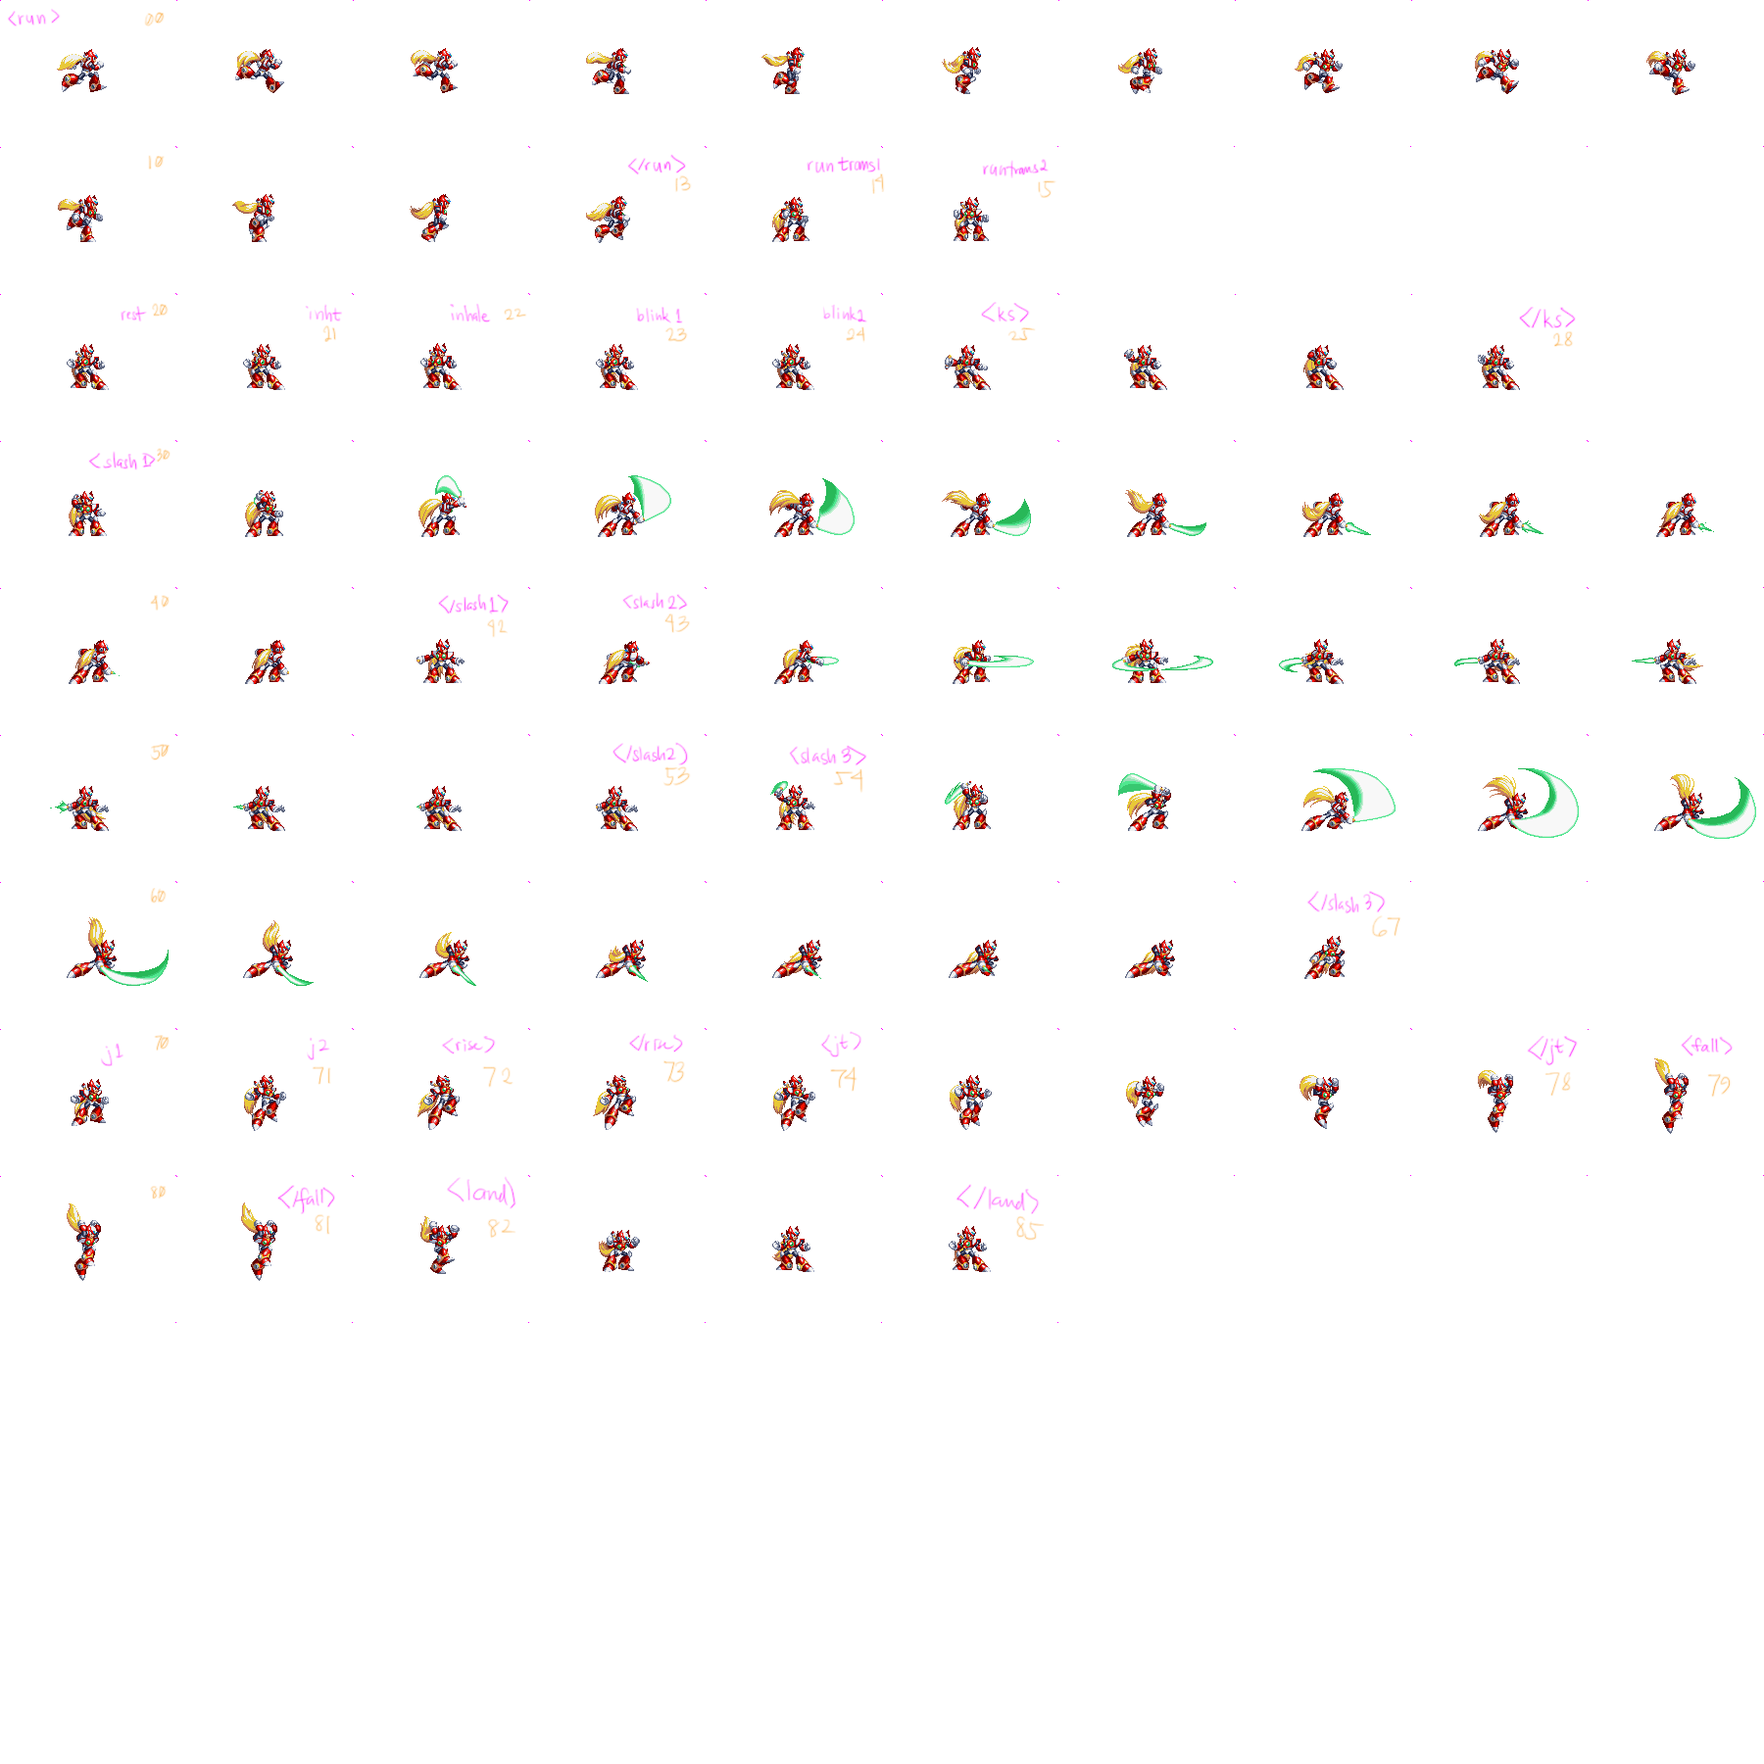
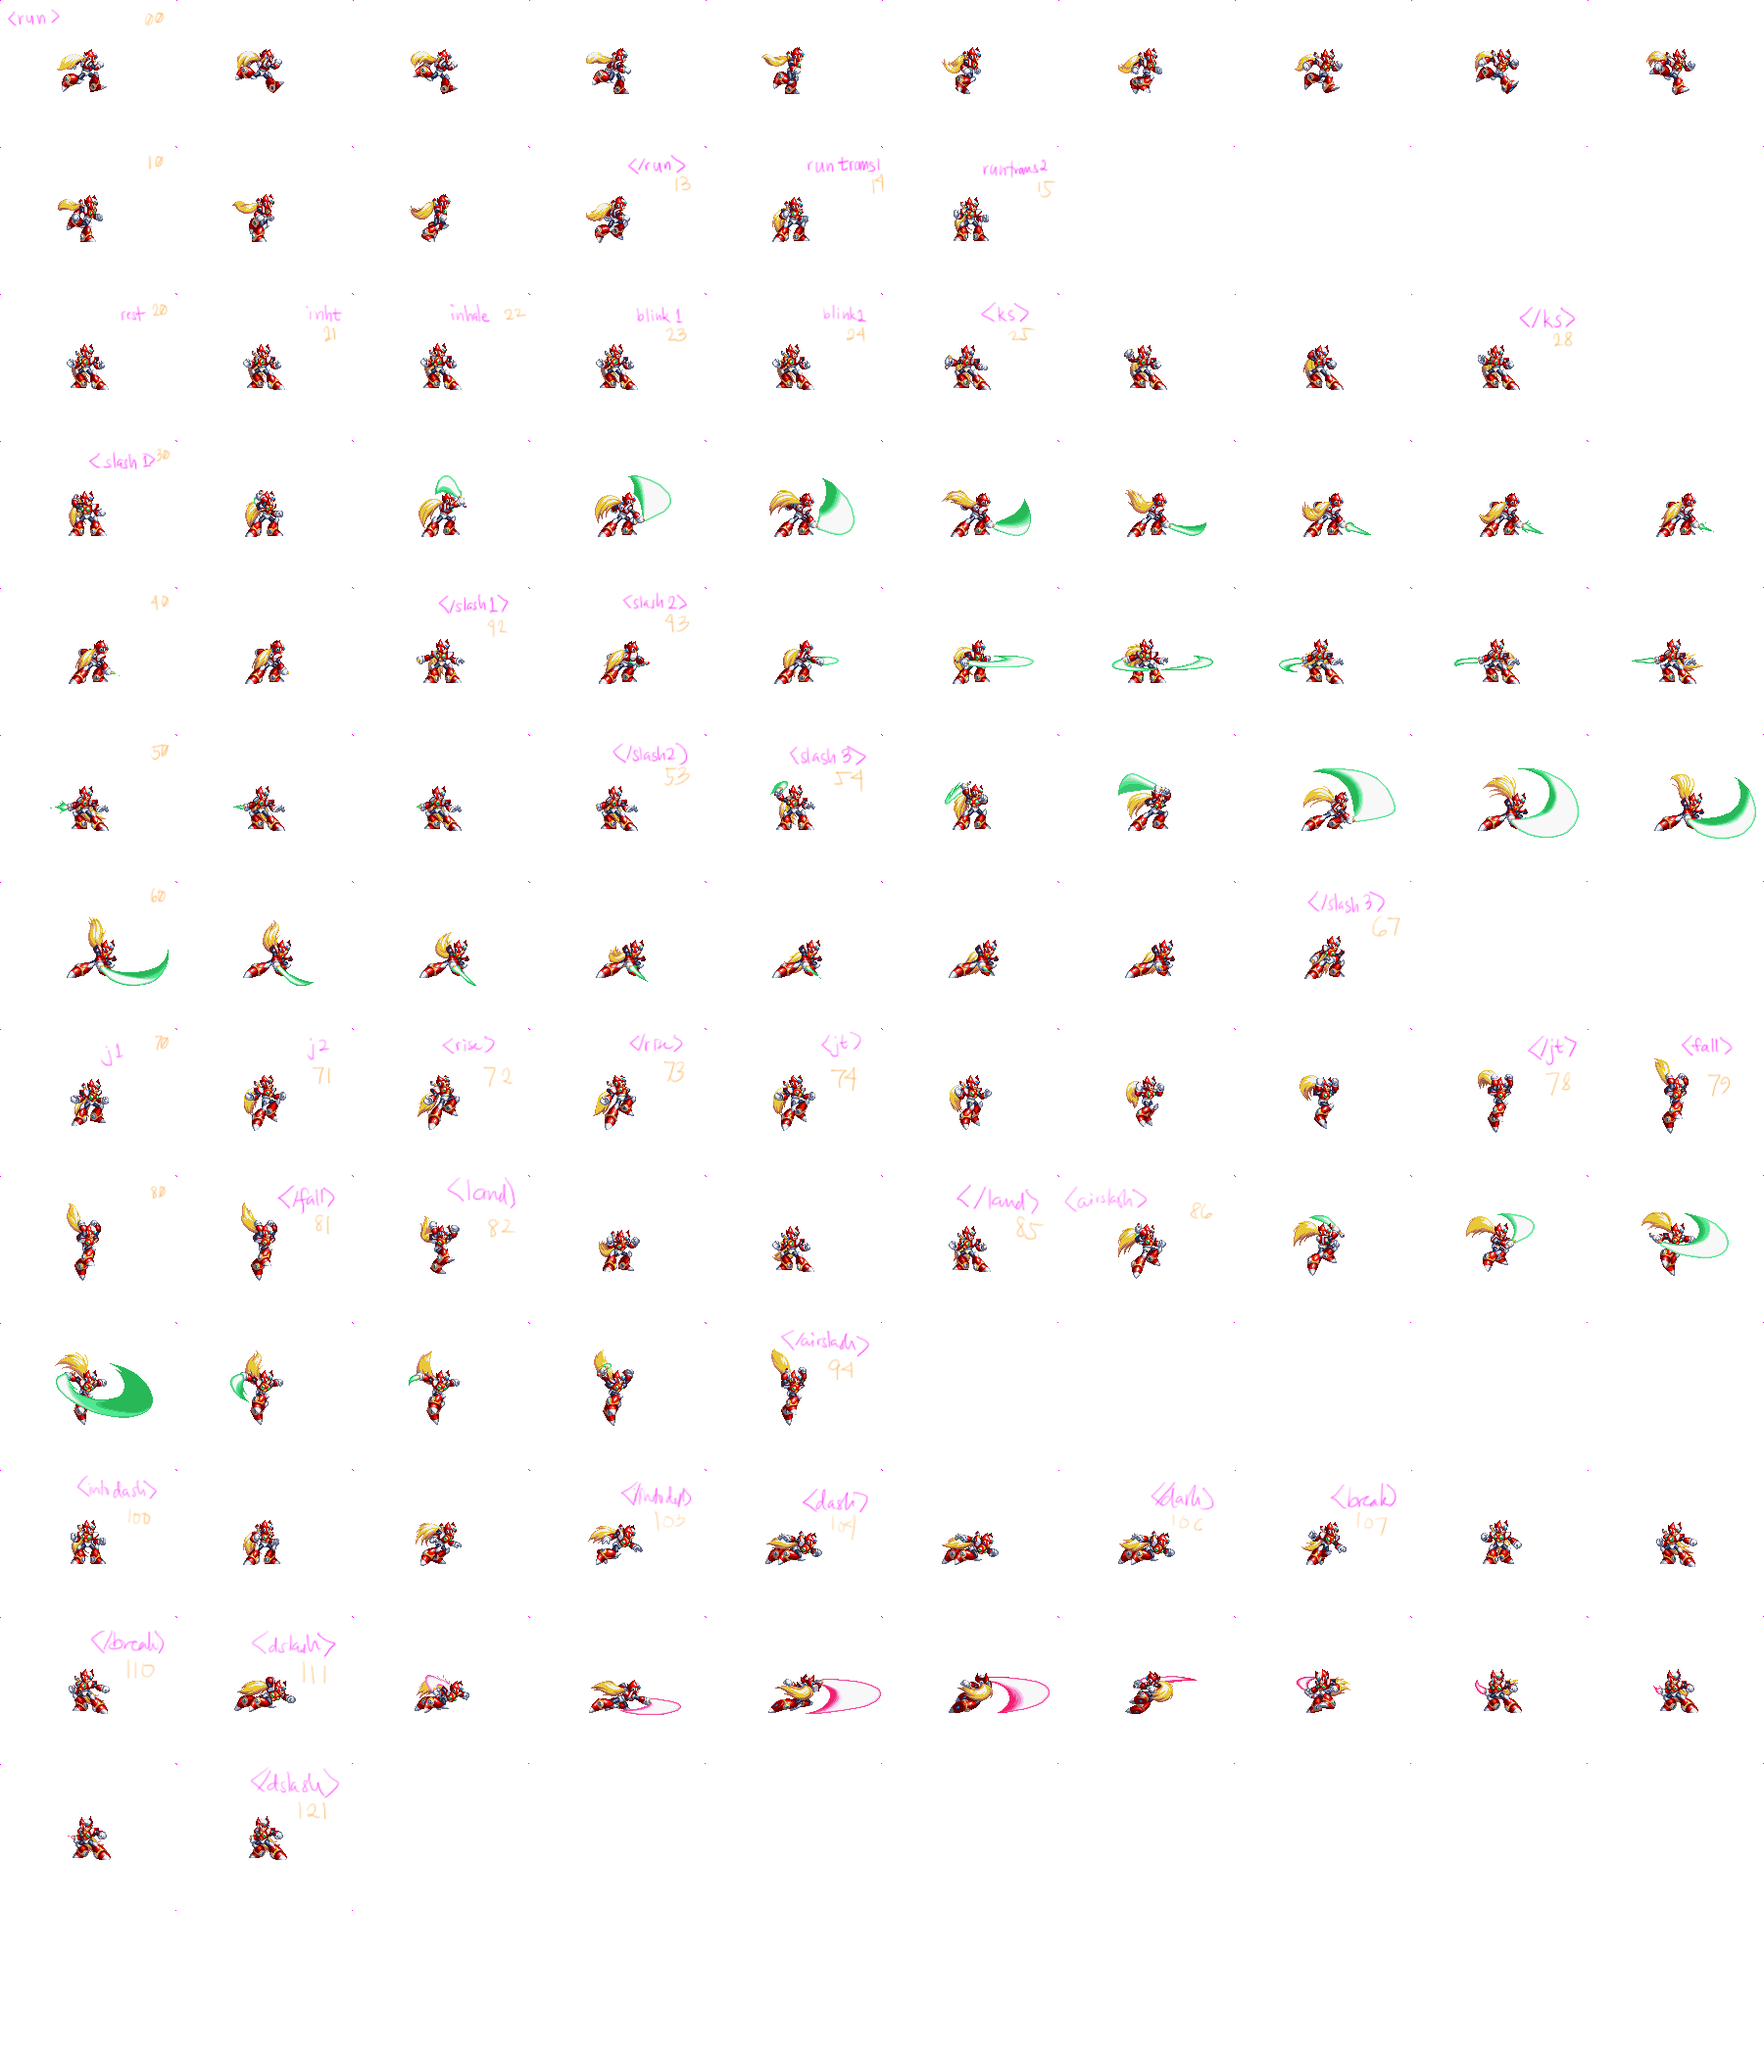
updated sprite
air slash in place
dash physics and logic still very buggy
fixed rounding error bug

diff --git a/CZero.cpp b/CZero.cpp
@@ -15,15 +15,22 @@ CZero::CZero() : CGameObject() {
 	//PHYSICS
 	position.x		= STARTING_X;
 	position.y		= STARTING_Y;
+	facingRight		= true;
 	vy				= 0;
 	vx				= 0;
 	vx_max			= MAX_VX;
 	vy_max			= MAX_VY;
 	ay				= ZAY;
 	ax				= ZAX;
+
 	jumpmax			= JUMP_FUEL_MAX;
 	jumpfuel		= jumpmax;
+
+	dashmax			= DASH_FUEL_MAX;
+	dashfuel		= dashmax;
+
 	falling			= true;
+	dashing			= false;
 	previousTime	= SDL_GetTicks() * 0.01f;
 
 	zeroState		= STATE_STANDING;
@@ -42,7 +49,7 @@ CZero::CZero() : CGameObject() {
 
 
 	zeroTexture = new GD4N::CSurfaceSheet(SURFID_ZERO);
-	zeroTexture->SetSpriteDimensions(12,10);
+	zeroTexture->SetSpriteDimensions(14,10);
 	zeroTexture->SetCurrentFrame(drawFrame);
 
 
@@ -70,15 +77,26 @@ void CZero::Draw() {
 }
 
 void CZero::ReactToInput(){	
-	if(sInput->GetKey(KEYBIND_RIGHT))				{		accelerate_right();		}
-	if(sInput->GetKey(KEYBIND_LEFT))				{		accelerate_left();		}
+	if(!dashing || (falling && dashing)) {
+		if(sInput->GetKey(KEYBIND_RIGHT))			{		accelerate_right();		}
+		if(sInput->GetKey(KEYBIND_LEFT))			{		accelerate_left();		}
+	}
+
 	if(sInput->GetKey(KEYBIND_JUMP))				{		jump();					}
 	else if(sInput->GetKeyUp(KEYBIND_JUMP))			{		breakjump();			}
+	
+	if(!falling) {																		//ground-only controls
+		if(sInput->GetKey(KEYBIND_DASH))			{		dash();					}
+	}
+	if(sInput->GetKeyUp(KEYBIND_DASH))			{		undash();				}
+
+	
 
 	if(sInput->GetKey(KEYBIND_ATTACK))				{		attack();				}
 	
 	//prevent hopping (by holding jump key)
 	if(!sInput->GetKey(KEYBIND_JUMP) && !falling)	{		reenableJump();			}	//re-enable jumping only when jump key is released and player has landed on the ground
+	if(!sInput->GetKey(KEYBIND_DASH) && !dashing)	{		reenableDash();			}	//re-enable jumping only when jump key is released and player has landed on the ground
 }
 void CZero::disableJump() {
 	jumpfuel = 0;
@@ -86,13 +104,23 @@ void CZero::disableJump() {
 void CZero::reenableJump() {
 	jumpfuel = jumpmax;
 }
+void CZero::disableDash() {
+	dashfuel = 0;
+}
+void CZero::reenableDash() {
+	dashfuel = dashmax;
+	dashing = false;
+}
+
 
 void CZero::readState() {
 	// this funnction's usefulness needs reevaluation
 	if(!falling){	//on the ground
 		int nvx = (vx * dt);
-		if(nvx == 0) {	zeroState = STATE_STANDING;	}		// not moving
-		else		 {	zeroState = STATE_RUNNING;	}		// moving		
+		if(nvx == 0)			{	zeroState = STATE_STANDING;	}		// not moving
+		else if(!dashing)		{	zeroState = STATE_RUNNING;	}		// moving		
+		else					{	zeroState = STATE_DASHING;	}
+		if(dashfuel <= 0)		{	dashing = false;			}
 	}
 }
 
@@ -103,8 +131,9 @@ void CZero::Physics() {
 	bound();
 }
 void CZero::move() {
-	position.x += vx * dt;
-	position.y += vy * dt;
+	if(!dashing) minmaxf(&vx, -vx_max, vx_max);
+	position.x += (vx * dt) + 0.5;			//+0.5 is to compensate for int-casting's fraction elimination
+	position.y += (vy * dt) + 0.5;			
 }
 void CZero::bound() {
 	boundme(&position.x, LEFTWALL, RIGHTWALL);		//	left-right boundaries
@@ -161,23 +190,30 @@ void CZero::setAnimationState() {
 			animZeroState == AS_SLASH1 ||
 			animZeroState == AS_SLASH2 ||
 			animZeroState == AS_SLASH3 ||
-			animZeroState == AS_KEEPSABER
+			animZeroState == AS_KEEPSABER ||
+			animZeroState == AS_BREAKING
 			)
 			
 			) animZeroState = AS_STANDING;
 		
 	}
+	if(dashing) {
+		if(animZeroState != AS_DASHING) animZeroState = AS_INTODASH;
+	}
+
 	if(zeroState == STATE_RUNNING) {	// vx != 0
 		if(animZeroState == AS_STANDING) animZeroState = AS_STARTRUN;
 		if(animZeroState != AS_STARTRUN) animZeroState = AS_RUNNING;
 	}
-	if(vy < 0) {						//going up
-		if (animZeroState == AS_STANDING) animZeroState = AS_JUMPOFF;
-		if (animZeroState != AS_JUMPOFF) animZeroState = AS_RISING;
-	}
-	if( abs((int)vy) < 10 && falling && animZeroState == AS_RISING) animZeroState = AS_JUMPTRANS;
-	if(vy > 0) {						//going down
-		if (animZeroState != AS_JUMPTRANS) animZeroState = AS_FALLING;
+	if(animZeroState != AS_AIRSLASH) {
+		if(vy < 0) {						//going up
+			if (animZeroState == AS_STANDING) animZeroState = AS_JUMPOFF;
+			if (animZeroState != AS_JUMPOFF) animZeroState = AS_RISING;
+		}
+		if( abs((int)vy) < 10 && falling && animZeroState == AS_RISING) animZeroState = AS_JUMPTRANS;
+		if(vy > 0) {						//going down
+			if (animZeroState != AS_JUMPTRANS) animZeroState = AS_FALLING;
+		}
 	}
 }
 void CZero::forwardFrame() {
@@ -205,9 +241,10 @@ void CZero::accelerate_up()    {
 									//vy -= ay * dt; minmaxf(&vy, -vy_max, vy_max);
 
 }
-void CZero::accelerate_down()  {	vy += ay * dt; minmaxf(&vy, -vy_max, vy_max);	}
-void CZero::accelerate_left()  {	vx -= ax * dt; minmaxf(&vx, -vx_max, vx_max);	}		//first statement accelerates vx; second statement limits maximum vx;
-void CZero::accelerate_right() {	vx += ax * dt; minmaxf(&vx, -vx_max, vx_max);	}
+void CZero::accelerate_down()	{	vy += ay * dt; minmaxf(&vy, -vy_max, vy_max);							}
+void CZero::accelerate_left()	{	vx -= ax * dt; facingRight = false;	}		//first statement accelerates vx; second statement limits maximum vx;
+void CZero::accelerate_right()	{	vx += ax * dt; facingRight = true;		}
+void CZero::dashccelerate()		{	vx = ZDASH * dt * ((facingRight? 1 : -1));								}
 
 void CZero::jump()	{
 	if(jumpfuel > 0) {
@@ -229,6 +266,20 @@ void CZero::dash() {
 	// dash gives zero a short burst of forward acceleration in the direction he's facing
 	// (like a horizontal jump)
 	// the Physics > friction > grind function should probably take care of braking.
+
+	if(dashfuel > 0) {
+		if(!dashing) {						//jump from ground
+			zeroState = STATE_DASHING;
+			dashing = true;
+			dashccelerate();
+		}
+		//continue upward acceleration
+		dashccelerate();
+		dashfuel -= DASHCONSUMPTION * dt;
+	}
+}
+void CZero::undash() {
+	disableDash();
 }
 
 void CZero::attack() {
@@ -259,6 +310,10 @@ void CZero::attack() {
 		) {
 			animZeroState = AS_SLASH1;
 	}
+	if (falling &&
+		animZeroState != AS_AIRSLASH) {
+			animZeroState = AS_AIRSLASH;
+	}
 	if(animZeroState == AS_SLASH1 && curFrame > 6) {
 		animZeroState = AS_SLASH2;
 		curFrame = 0;
@@ -267,6 +322,8 @@ void CZero::attack() {
 		animZeroState = AS_SLASH3;
 		curFrame = 0;
 	}
+	
+
 }
 
 //COLLISIONS

diff --git a/CZero.h b/CZero.h
@@ -41,9 +41,13 @@ protected:
 	void readState();
 	
 	bool falling;					// falling tracks when to apply gravity (when you're jumping or not on the ground)
+	bool dashing;
+	bool facingRight;
+
 	int zeroState;
 	int lastZeroState;				// probably won't need this anymore
 	float jumpfuel;	float jumpmax;	// jump limiter, also allows jumping of different heights
+	float dashfuel; float dashmax;	// dash limiter, also allows dashing of different distances
 
 	// physics
 	float vy;	float vx;	float vx_max;	float vy_max;
@@ -61,6 +65,9 @@ protected:
 	void accelerate_down(); 
 	void accelerate_left(); 
 	void accelerate_right();
+	void dashccelerate();
+	void undash();
+
 	void dash();
 	void jump();
 	void breakjump();
@@ -70,6 +77,9 @@ protected:
 	void disableJump();
 	void reenableJump();
 	void land();
+
+	void disableDash();
+	void reenableDash();
 
 
 
@@ -93,6 +103,10 @@ enum ZERO_ANIMSTATES {
 	AS_SLASH2		= 10,
 	AS_SLASH3		= 11,
 	AS_KEEPSABER	= 12,
+	AS_AIRSLASH		= 13,
+	AS_INTODASH		= 14,
+	AS_DASHING		= 15,
+	AS_BREAKING		= 16
 };
 
 const int sfZeroStand[]		 =	{	20,20,20,21,22,22,22,21						};
@@ -110,6 +124,15 @@ const int sfZeroRise[] =		{	72,73										};
 const int sfZeroJT[] =			{	74,75,76,77,78							 	};
 const int sfZeroFall[] =		{	79,80,81									};
 const int sfZeroLand[] =		{	82,83,84,85									};
+const int sfZeroJSlash[] =		{	86,87,88,89,90,91,92,93,94					};
+
+
+const int sfZeroIntoDash[] =	{	100, 101, 102, 103							};
+const int sfZeroDashing[] =		{	104, 105, 106								};
+const int sfZeroBreak[]	=		{	107, 108, 109, 110							};
+
+const int sfZeroDSlash[] =		{	111, 112, 113, 114, 115, 116, 117, 118, 119, 120, 121};
+
 
 
 typedef struct animationsegment {
@@ -134,9 +157,12 @@ const animPart aCycle[] = {
 		{ sizeof(sfZeroSlash1)/sizeof(int)	,	0.02f,		false	,	(int*)&sfZeroSlash1		, AS_KEEPSABER	}, //zero slash1
 		{ sizeof(sfZeroSlash2)/sizeof(int)	,	0.02f,		false	,	(int*)&sfZeroSlash2		, AS_KEEPSABER	}, //zero slash2
 		{ sizeof(sfZeroSlash3)/sizeof(int)	,	0.02f,		false	,	(int*)&sfZeroSlash3		, AS_KEEPSABER	}, //zero slash3
-		{ sizeof(sfZeroKS)/sizeof(int)		,	0.033f,		false	,	(int*)&sfZeroKS			, AS_STANDING	} //zero keepsaber
+		{ sizeof(sfZeroKS)/sizeof(int)		,	0.033f,		false	,	(int*)&sfZeroKS			, AS_STANDING	}, //zero keepsaber
+		{ sizeof(sfZeroJSlash)/sizeof(int)	,	0.02f,		false	,	(int*)&sfZeroJSlash		, AS_FALLING	}, //zero airslash
+		{ sizeof(sfZeroIntoDash)/sizeof(int),	0.033f,		false	,	(int*)&sfZeroIntoDash	, AS_DASHING	}, //zero into dash
+		{ sizeof(sfZeroDashing)/sizeof(int)	,	0.033f,		false	,	(int*)&sfZeroDashing	, AS_DASHING	}, //zero dashing
+		{ sizeof(sfZeroBreak)/sizeof(int)	,	0.033f,		false	,	(int*)&sfZeroBreak		, AS_STANDING	}, //zero breaking
+		{ sizeof(sfZeroDSlash)/sizeof(int)	,	0.033f,		false	,	(int*)&sfZeroDSlash		, AS_STANDING	} //zero dashing slash
 };
-
-
 
 #endif

diff --git a/constants.h b/constants.h
@@ -10,13 +10,14 @@ const SDLKey KEYBIND_LEFT	=	SDLK_LEFT;
 const SDLKey KEYBIND_RIGHT	=	SDLK_RIGHT;
 const SDLKey KEYBIND_UP		=	SDLK_UP;
 const SDLKey KEYBIND_DOWN	=	SDLK_DOWN;
-const SDLKey KEYBIND_JUMP	=	SDLK_SPACE;
-const SDLKey KEYBIND_ATTACK	=	SDLK_z;
+const SDLKey KEYBIND_JUMP	=	SDLK_s;
+const SDLKey KEYBIND_DASH	=	SDLK_w;
+const SDLKey KEYBIND_ATTACK	=	SDLK_a;
 
 //PHYSICS CONSTANTS
 
 //horizontal movement
-const float FRIC_X			=	30.0f;		
+const float FRIC_X			=	20.0f;		
 const float MAX_VX			=	40.0f;		//max speed
 const float ZAX				=	100.0f;		//acceleration
 
@@ -24,9 +25,16 @@ const float ZAX				=	100.0f;		//acceleration
 const float GRAVITY_ACC		=	20.0f;		
 const float MAX_VY			=	600.0f;		//max speed
 const float ZAY				=	200.0f;		//acceleration
-const float ZJUMPY			=	1000.0f;
-const float JUMP_FUEL_MAX	=	120;
+
+const float ZJUMPY			=	1200.0f;
+const float JUMP_FUEL_MAX	=	100;
 const float JUMPCONSUMPTION	=	60;
+
+const float ZDASH			=	1500.0f;
+const float DASH_FUEL_MAX	=	260;
+const float DASHCONSUMPTION	=	60;
+
+
 
 const float STARTING_X		=	150;
 const float STARTING_Y		=	150;
@@ -86,6 +94,7 @@ enum GAMEOBJECT_TYPES {
 enum ZERO_STATES {
 	STATE_STANDING,
 	STATE_JUMPING,
+	STATE_DASHING,
 	STATE_RUNNING,
 };
 
